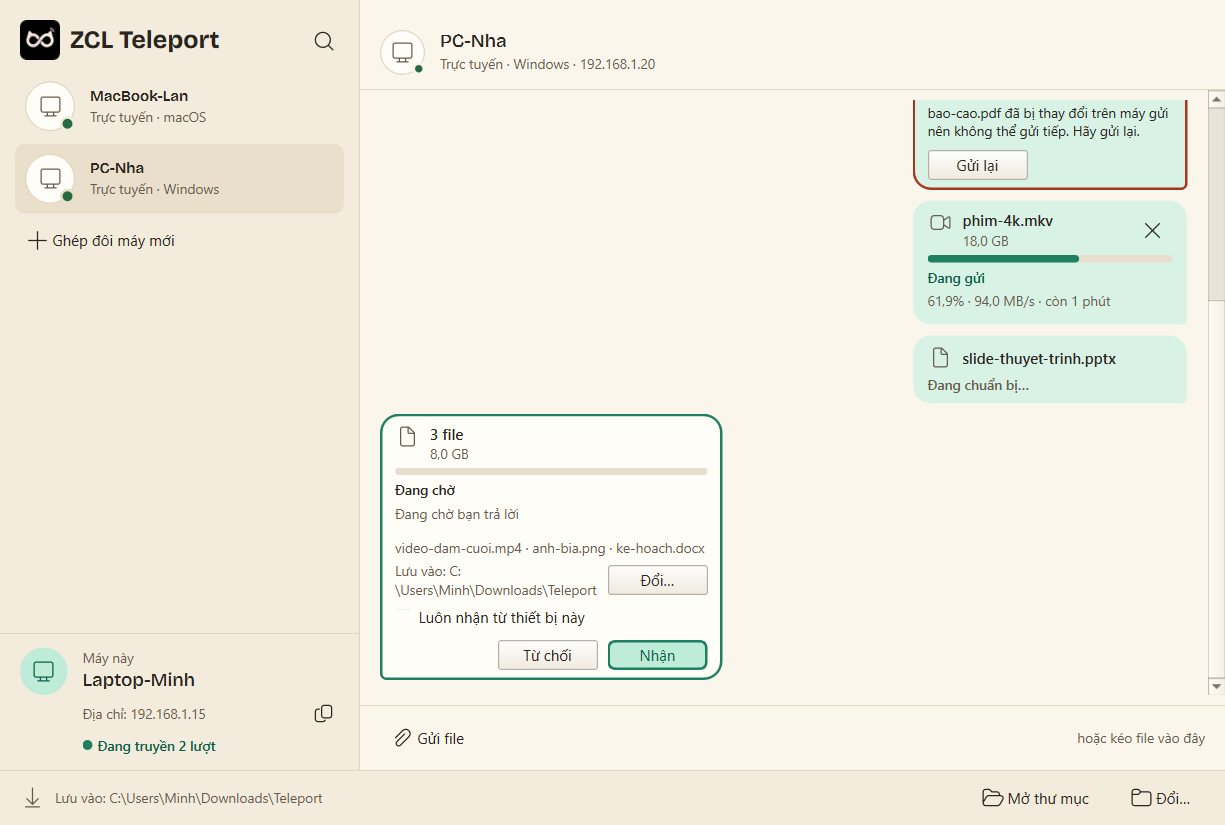
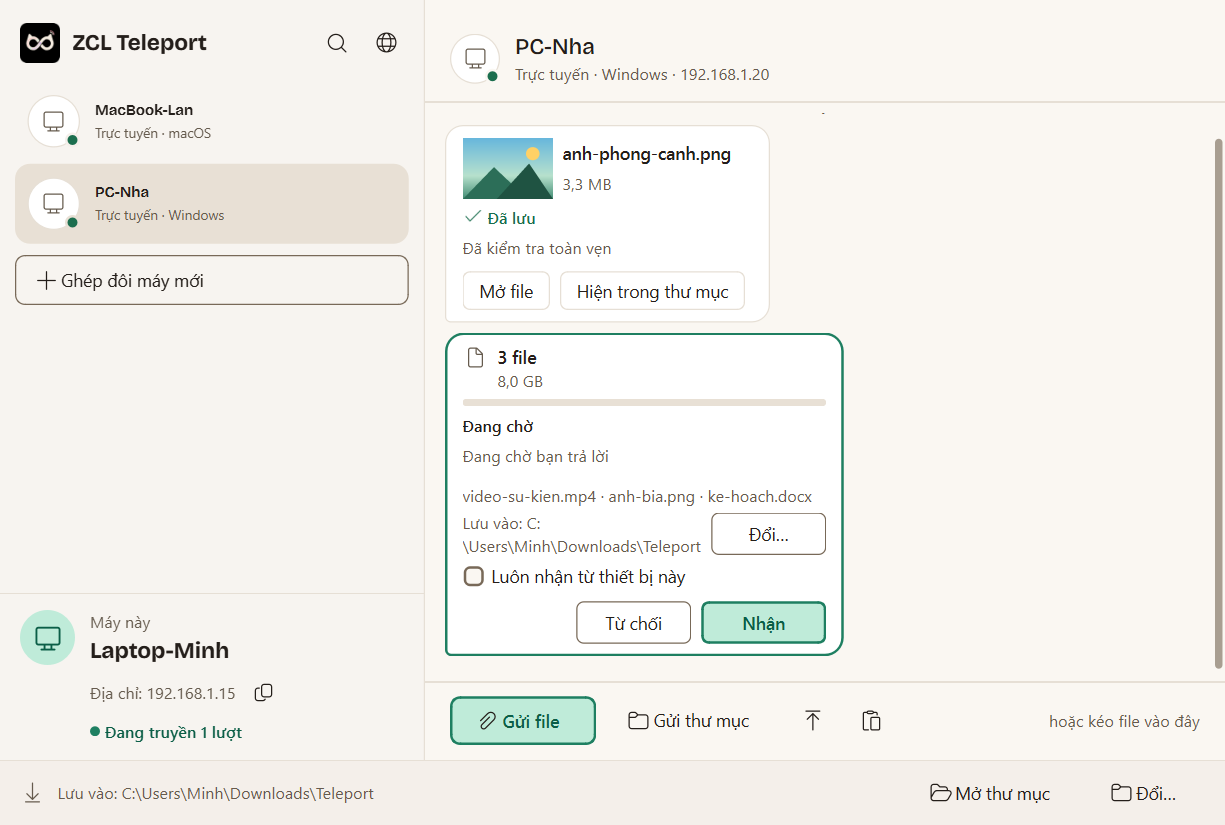
docs: cập nhật ảnh giao diện mới, README và tài liệu cho lộ trình v1.7.0

diff --git a/README.md b/README.md
@@ -70,24 +70,33 @@ Tiêu chí chi tiết cho từng tính năng: [docs/product/mvp.md](docs/product
 | **Ghép đôi một lần duy nhất** | Lần đầu kết nối, hai máy hiển thị cùng một mã 6 chữ số để xác nhận. Sau đó hai máy sẽ tự nhận ra nhau. | Hoàn thành |
 | **Gửi file dung lượng cực lớn** | Kéo thả một hoặc nhiều file để gửi. Bên nhận luôn được hỏi ý kiến trước khi nhận; hiển thị rõ tốc độ và tiến độ truyền. | Hoàn thành |
 | **Gửi cả thư mục & nhiều máy** | Hỗ trợ gửi toàn bộ cây thư mục con giữ nguyên cấu trúc; gửi cùng lúc tới nhiều thiết bị trong mạng nội bộ. | Hoàn thành |
-| **Chế độ khách qua Web QR** | Quét mã QR bằng điện thoại để gửi/nhận tệp và thư mục qua trình duyệt, hỗ trợ tải nhiều tệp dưới dạng gói nén `.zip` mà không cần cài ứng dụng trên điện thoại. | Hoàn thành |
+| **Chế độ khách qua Web QR** | Trang thao tác riêng không chặn cửa sổ chính; quét mã QR trên điện thoại để gửi/nhận tệp và thư mục qua trình duyệt, xem trước ảnh trực tiếp, nhắn văn bản hai chiều và tải gói nén `.zip` không cần cài ứng dụng. | Hoàn thành |
+| **Tự phân loại & cổng đẩy tự động** | Tự động sắp xếp tệp nhận vào thư mục đích theo loại tệp hoặc máy gửi; tự gửi tệp mới đặt vào thư mục theo dõi kèm nút sửa quy tắc, mẫu chọn nhanh và tạm dừng toàn bộ. | Hoàn thành |
 | **Tự động nhận tiếp** | Đang gửi mà mất kết nối, khi kết nối lại ứng dụng sẽ gửi tiếp từ vị trí tạm dừng, không gửi lại từ đầu. | Hoàn thành |
 | **Kiểm tra tính nguyên vẹn** | Từng phần nhỏ và toàn bộ file đều được kiểm tra khớp hoàn toàn với bản gốc trước khi hoàn tất. | Hoàn thành |
 | **Đồng bộ nội dung sao chép** | Sao chép văn bản hoặc ảnh ở máy này có thể dán ngay trên máy kia nếu bạn bật cho phép. Mặc định tắt để đảm bảo riêng tư. | Hoàn thành |
-| **Chạy ngầm tiện lợi** | Thu gọn xuống khay hệ thống, luôn sẵn sàng khi có người gửi dữ liệu tới; có thể bật tự khởi động cùng máy. | Hoàn thành |
-| **Tùy biến linh hoạt** | Đổi tên máy, đổi thư mục lưu file nhận, ẩn danh khỏi máy lạ, đổi giao diện sáng/tối. | Hoàn thành |
+| **Chạy ngầm tiện lợi** | Thu gọn xuống khay hệ thống với lối tắt Web QR và mở thư mục nhận; hiển thị tiến độ ngay trên biểu tượng thanh tác vụ; có thể bật tự khởi động cùng máy. | Hoàn thành |
+| **Tùy biến linh hoạt** | Đổi tên máy, đổi thư mục lưu file nhận, bật/tắt nhanh trạng thái ngay trên thẻ máy, ẩn danh khỏi máy lạ, đổi giao diện sáng/tối. | Hoàn thành |
 | **Hỗ trợ hai ngôn ngữ** | Tiếng Việt và Tiếng Anh. | Hoàn thành |
 | **Hỗ trợ dòng lệnh** | Cung cấp lệnh điều khiển cho người thích thao tác nhanh hoặc tự động hóa công việc. | Hoàn thành |
-| **Bộ cài đặt dễ dùng** | Bộ cài đặt tiêu chuẩn cho Windows cùng kịch bản đóng gói đa nền tảng. | Hoàn thành |
+| **Bộ cài đặt dễ dùng** | Bộ cài đặt tiêu chuẩn cho Windows (Tiếng Việt & Tiếng Anh) cùng kịch bản đóng gói đa nền tảng. | Hoàn thành |
 
 <table>
 <tr>
 <td width="50%"><img src="docs/assets/tim-may-moi.png" alt="Màn hình tìm máy: hiển thị các máy đang mở ứng dụng trong mạng nội bộ"></td>
-<td width="50%"><img src="docs/assets/hoi-nhan-file.png" alt="Màn hình xác nhận nhận file với hai lựa chọn Nhận hoặc Từ chối"></td>
+<td width="50%"><img src="docs/assets/hoi-nhan-file.png" alt="Màn hình trò chuyện truyền tệp: xem trước ảnh thu nhỏ, nút mở nhanh và hộp xác nhận nhận file"></td>
 </tr>
 <tr>
 <td align="center"><b>Tìm máy trong mạng</b></td>
-<td align="center"><b>Xác nhận trước khi nhận file</b></td>
+<td align="center"><b>Gửi file, xem trước ảnh &amp; xác nhận nhận</b></td>
+</tr>
+<tr>
+<td width="50%"><img src="docs/assets/web-qr-khach.png" alt="Trang Chế độ khách qua Web QR trên điện thoại với mã QR, chia sẻ tệp và nhắn văn bản hai chiều"></td>
+<td width="50%"><img src="docs/assets/tu-dong-hoa-cai-dat.png" alt="Trang Cài đặt truyền file hiển thị truyền thông minh phần thay đổi, quy tắc tự phân loại và cổng đẩy tự động"></td>
+</tr>
+<tr>
+<td align="center"><b>Chế độ khách qua Web QR trên điện thoại</b></td>
+<td align="center"><b>Tự phân loại tệp nhận &amp; cổng đẩy tự động</b></td>
 </tr>
 </table>
 
@@ -229,7 +238,8 @@ Tiến độ chi tiết từng giai đoạn được cập nhật tại [docs/pr
 - **Mở rộng `v1.1.0` – `v1.2.0`:** Gửi cả cây thư mục con, gửi song song nhiều máy, ẩn tên thiết bị trên mạng công cộng và Chế độ khách qua Web QR cho điện thoại (Đã hoàn thành).
 - **Bản nâng cấp `v1.3.0`:** Kết nối thông suốt giữa dòng lệnh và giao diện đang chạy nền, tự gom thư mục con theo từng lượt nhận, tải gói nén `.zip` trực tiếp và kéo thả thư mục trên Web QR, khóa tạm thời chống dò mã, và tối ưu bộ nhớ kiểm tra toàn vẹn (Đã hoàn thành).
 - **Bản nâng cấp `v1.4.0`:** Chọn gửi cả thư mục và gửi đồng thời nhiều máy trực tiếp trên giao diện, chế độ ẩn danh hoàn toàn, quản lý/hủy lượt nhận dở và kiểm tra cập nhật thủ công từ Cài đặt (Đã hoàn thành).
-- **Lộ trình kế tiếp (`v1.5.0` – `v2.0.0`):** Nối lại bền qua mất điện hai chiều, Web QR 2.0 (bảng ghi chú/liên kết hai chiều và gửi ảnh từ camera), biên lai truyền nhận ký số hai bên, truyền thông minh phần thay đổi theo thư mục/khối và ứng dụng Android.
+- **Lộ trình `v1.5.0` – `v1.7.0`:** Nối lại bền qua mất điện hai chiều, biên lai truyền nhận xác thực hai bên, truyền thông minh phần thay đổi, tự phân loại thư mục nhận, cổng đẩy tự động, Web QR 2.0 (trang riêng, xem trước ảnh trực tiếp, nhắn văn bản hai chiều) và tối ưu thao tác nhanh trên khay hệ thống, thẻ máy và thanh tác vụ (Đang phát triển trong bản chưa phát hành).
+- **Hướng tiếp theo (`v2.0.0`):** Ứng dụng trên điện thoại Android.
 
 ---
 

diff --git a/docs/product/huong_dan_su_dung.md b/docs/product/huong_dan_su_dung.md
@@ -94,11 +94,17 @@ ZCL Teleport hỗ trợ tính năng chia sẻ nội dung sao chép giữa các m
 
 Khi muốn gửi ảnh, video hoặc tài liệu giữa máy tính và điện thoại mà không cần cài thêm phần mềm lên điện thoại:
 
-1. Trên giao diện máy tính, bấm nút **Chuyển tệp với điện thoại** (hoặc chạy lệnh `teleport guest` trên cửa sổ dòng lệnh).
-2. Màn hình máy tính sẽ hiện một mã QR. Hãy mở máy ảnh trên điện thoại (đang dùng chung mạng Wi-Fi với máy tính) để quét mã đó và mở đường dẫn trên trình duyệt web.
-3. **Gửi từ điện thoại sang máy tính:** Tại mục **Gửi sang máy tính**, chọn một hoặc nhiều tệp, chọn cả thư mục, hoặc kéo thả trực tiếp vào khung trên trình duyệt để chuyển thẳng vào thư mục nhận của máy tính.
-4. **Tải từ máy tính về điện thoại:** Trên máy tính bấm **+ Thêm tệp chia sẻ...** để chọn tệp hoặc thư mục muốn gửi. Trên điện thoại chuyển sang mục **Nhận về điện thoại** để tải từng tệp hoặc bấm **Tải tất cả (.zip)** để gộp tất cả thành một tệp nén tải về ngay lập tức mà không tốn dung lượng tạm trên ổ đĩa máy tính.
-5. Khi xong việc, bấm **Đóng** hộp thoại trên máy tính để ngắt phiên kết nối. Đường dẫn chỉ có tác dụng trong mạng nội bộ và tự động tắt sau 10 phút nếu không có thao tác nào.
+1. Trên giao diện máy tính, bấm nút **Chuyển tệp với điện thoại** (hoặc chọn trong menu khay hệ thống, hay chạy lệnh `teleport guest` trên cửa sổ dòng lệnh). Bạn cũng có thể chọn tệp từ Windows Explorer qua **Gửi tới › ZCL Teleport** rồi bấm **Gửi qua điện thoại (Web QR)…**.
+2. Trang **Chuyển tệp với điện thoại** sẽ mở mã QR và giữ phiên hoạt động liên tục ngay cả khi bạn quay lại màn hình chính để làm việc khác. Hãy mở máy ảnh điện thoại (đang dùng chung mạng Wi-Fi với máy tính) để quét mã và mở đường dẫn trên trình duyệt web.
+3. **Gửi từ điện thoại sang máy tính:** Tại mục **Gửi sang máy tính**, chọn tệp, thư mục, chụp ảnh trực tiếp hoặc kéo thả; danh sách gửi hỗ trợ nút **Hủy** / **Thử lại** từng tệp cùng thanh tiến độ tổng và thời gian còn lại. Tệp nhận về hiện ngay trong trang với nút **Mở file** (chỉ bật cho định dạng an toàn) và **Hiện trong thư mục**.
+4. **Tải từ máy tính về điện thoại:** Trên máy tính bạn có thể kéo thả tệp/thư mục trực tiếp vào khung chia sẻ hoặc bấm **+ Thêm tệp…** / **+ Thêm thư mục…**, gỡ từng mục khi cần. Trên điện thoại có thể xem trước ảnh thu nhỏ trước khi tải về, hoặc bấm **Tải tất cả (.zip)** để tải trọn bộ không tốn dung lượng tạm.
+5. **Nhắn văn bản và đổi quyền phiên:** Gửi/nhận liên kết hoặc ghi chú hai chiều theo thời gian thực với dấu báo tin mới ở tab. Khi xong việc, bấm **Dừng phiên** trên trang (hoặc rời trang vẫn chạy tới khi hết 10 phút không thao tác). Lưu ý: nếu đổi quyền phiên hoặc chế độ dùng 1 lượt khi đang chạy, ứng dụng sẽ tạo mã QR mới và làm mã cũ hết hạn.
+
+### 6.1. Lối tắt thao tác nhanh hằng ngày
+
+- **Tìm nhanh và lọc máy:** Dùng ô lọc ở cột danh sách thiết bị khi có từ 5 máy trở lên, hoặc nhấn `Ctrl + F` trong khung trò chuyện để tìm nhanh theo tên tệp / văn bản; dùng `Ctrl + Shift + V` để gửi ngay ảnh đang sao chép trong clipboard.
+- **Bật/tắt nhanh ngay trên cửa sổ & khay:** Nhấp trực tiếp vào nhãn trạng thái (**Sẵn sàng nhận** / **Đã tạm dừng nhận** / **Đang ẩn**) ở thẻ máy dưới cột trái để tạm dừng nhận hoặc ẩn máy tức thì; dùng biểu tượng khay hệ thống để mở nhanh thư mục nhận hoặc trang Web QR.
+- **Tự phân loại & cổng đẩy thư mục dễ dùng:** Trong **Cài đặt → Truyền file**, bạn có thể bấm **Sửa** từng quy tắc, dùng các nút chọn nhanh loại file (**Ảnh**, **Video**, **Tài liệu**, **Nén**, **Nhạc**) thay vì gõ tay, và bấm **Tạm dừng tất cả** khi cần tạm ngưng mọi cổng đẩy.
 
 ---
 

diff --git a/docs/community/CHANGELOG.md b/docs/community/CHANGELOG.md
@@ -6,6 +6,21 @@ Mọi thay đổi đáng chú ý của dự án được ghi ở đây.
 ## [Unreleased]
 
 ### Added
+- **Cột mốc 4 (`v1.7.0`) — Tối ưu trải nghiệm người dùng (Đợt 1, 2, 3):**
+  - **Đợt 1 — Luồng trò chuyện, bong bóng tệp & dán nhanh (`ui/chat.py`, `ui/chat_bubbles.py`, `ui/conversations.py`, `ui/thumbnails.py`, `ui/shell.py`, `ui/diagnose.py`, `ui/app.py`):**
+    - Thanh điều khiển nhanh trên đầu luồng trò chuyện (bật/tắt clipboard, tự nhận và menu `⋯` cho Kết nối IP, Thử lại, Gửi ảnh từ clipboard, Cài đặt máy, Xóa lịch sử máy), nút **Mở file** an toàn (chặn đuôi thực thi/kịch bản), mở rộng danh sách tệp trong bong bóng, hiển thị dung lượng tiết kiệm Smart Delta và thư mục đích phân loại tự động, xuất biên lai trực tiếp từ bong bóng, ảnh thu nhỏ an toàn nền (`ThumbnailLoader`), gửi ảnh clipboard qua `Ctrl+Shift+V`, nút **Chép lại** trên `ClipboardNote`, tìm nhanh trong luồng (`Ctrl+F`) và lọc danh sách thiết bị khi có từ 5 máy trở lên.
+  - **Đợt 2 — Chế độ khách điện thoại Web QR 2.0 (`ui/web_guest_dialog.py`, `ui/main_window.py`, `net/web_guest.py`, `net/web_guest_assets.py`, `app/web_guest.py`):**
+    - Chuyển sang trang không chặn `Page.WEB_GUEST` (`WebGuestPage`, giữ phiên chạy khi quay về trang chính), hỗ trợ kéo thả tệp/thư mục và gỡ từng mục chia sẻ, danh sách tệp nhận kèm **Mở file** / **Hiện trong thư mục**, khung nhắn văn bản 2 chiều và cảnh báo làm hết hạn QR cũ khi đổi quyền phiên.
+    - Nâng cấp web khách: tự chọn ngôn ngữ theo trình duyệt, bỏ `user-scalable=no`, huy hiệu số mục mới theo SSE, nút **Hủy** / **Thử lại** từng tệp và thanh tiến độ tổng + ETA, xem trước ảnh thu nhỏ (`?inline=1` không tiêu thụ phiên `one_shot`).
+  - **Đợt 3 — Tự động hóa dễ dùng, lối tắt vận hành & bộ cài đa ngôn ngữ (`ui/settings.py`, `app/watch.py`, `app/node.py`, `ui/home.py`, `ui/tray.py`, `ui/taskbar.py`, `ui/send_picker.py`, `packaging/inno/teleport.iss`):**
+    - Cho phép bấm **Sửa** quy tắc phân loại / cổng đẩy tự động (giữ nguyên `id` và trạng thái bật), thêm bộ chọn nhanh loại tệp (`FILE_TYPE_PRESETS`) và nút **Tạm dừng tất cả** cho toàn bộ cổng đẩy (`WatchPortalService.set_paused`, `Node.set_watch_portals_paused`).
+    - Bấm huy hiệu trạng thái trên `MachineCard` để bật/tắt nhanh tạm dừng nhận hoặc ẩn máy; bổ sung lối tắt **Chuyển tệp với điện thoại (Web QR)…** và **Mở thư mục nhận** vào menu khay hệ thống; hiển thị thanh tiến độ trên nút thanh tác vụ Windows (`ITaskbarList3` trong `ui/taskbar.py`); thêm nút **Gửi qua điện thoại (Web QR)…** trong `SendPickerDialog`; và bật ngôn ngữ tiếng Anh trong bộ cài Windows `packaging/inno/teleport.iss`.
+
+### Fixed
+- **Khử lặp thông báo và âm thanh cảnh báo khi mạng bị chặn (`app/node.py`, `ui/app.py`, `ui/chat.py`, `ui/widgets.py`):**
+  - Áp dụng backoff tăng dần khi mDNS liên tục gặp lỗi quảng bá trong `_netwatch` (đặt lại ngay khi đổi mạng/phục hồi), giới hạn tần suất kiểm tra tường lửa khi chữ ký mạng không đổi (`FIREWALL_RECHECK_INTERVAL = 60.0`), tôn trọng thao tác đóng thông báo của người dùng cho tới khi mạng đổi, và khử trùng lặp phát sự kiện trợ năng `QAccessible.Event.Alert` khi `InfoBar` đang mở với cùng nội dung.
+
+### Added (v1.6.0)
 - **Cột mốc 3 (`v1.6.0`) — Truyền thông minh phần thay đổi (Smart Delta), Tự động phân loại & Đẩy thư mục, Gửi nhanh Clipboard:**
   - **Truyền thông minh phần thay đổi — Smart Delta (`core/delta.py`, `app/delta.py`, `core/messages.py`, `core/transfer.py`, `app/transfers.py`, `cli.py`, `ui/settings.py`):**
     - Tương thích ngược hoàn toàn `protocol = 1` thông qua cờ tùy chọn `offer.delta` cùng hai thông điệp điều khiển mới `delta_probe` và `delta_match` (`MAX_DELTA_PROBE = 256`).
